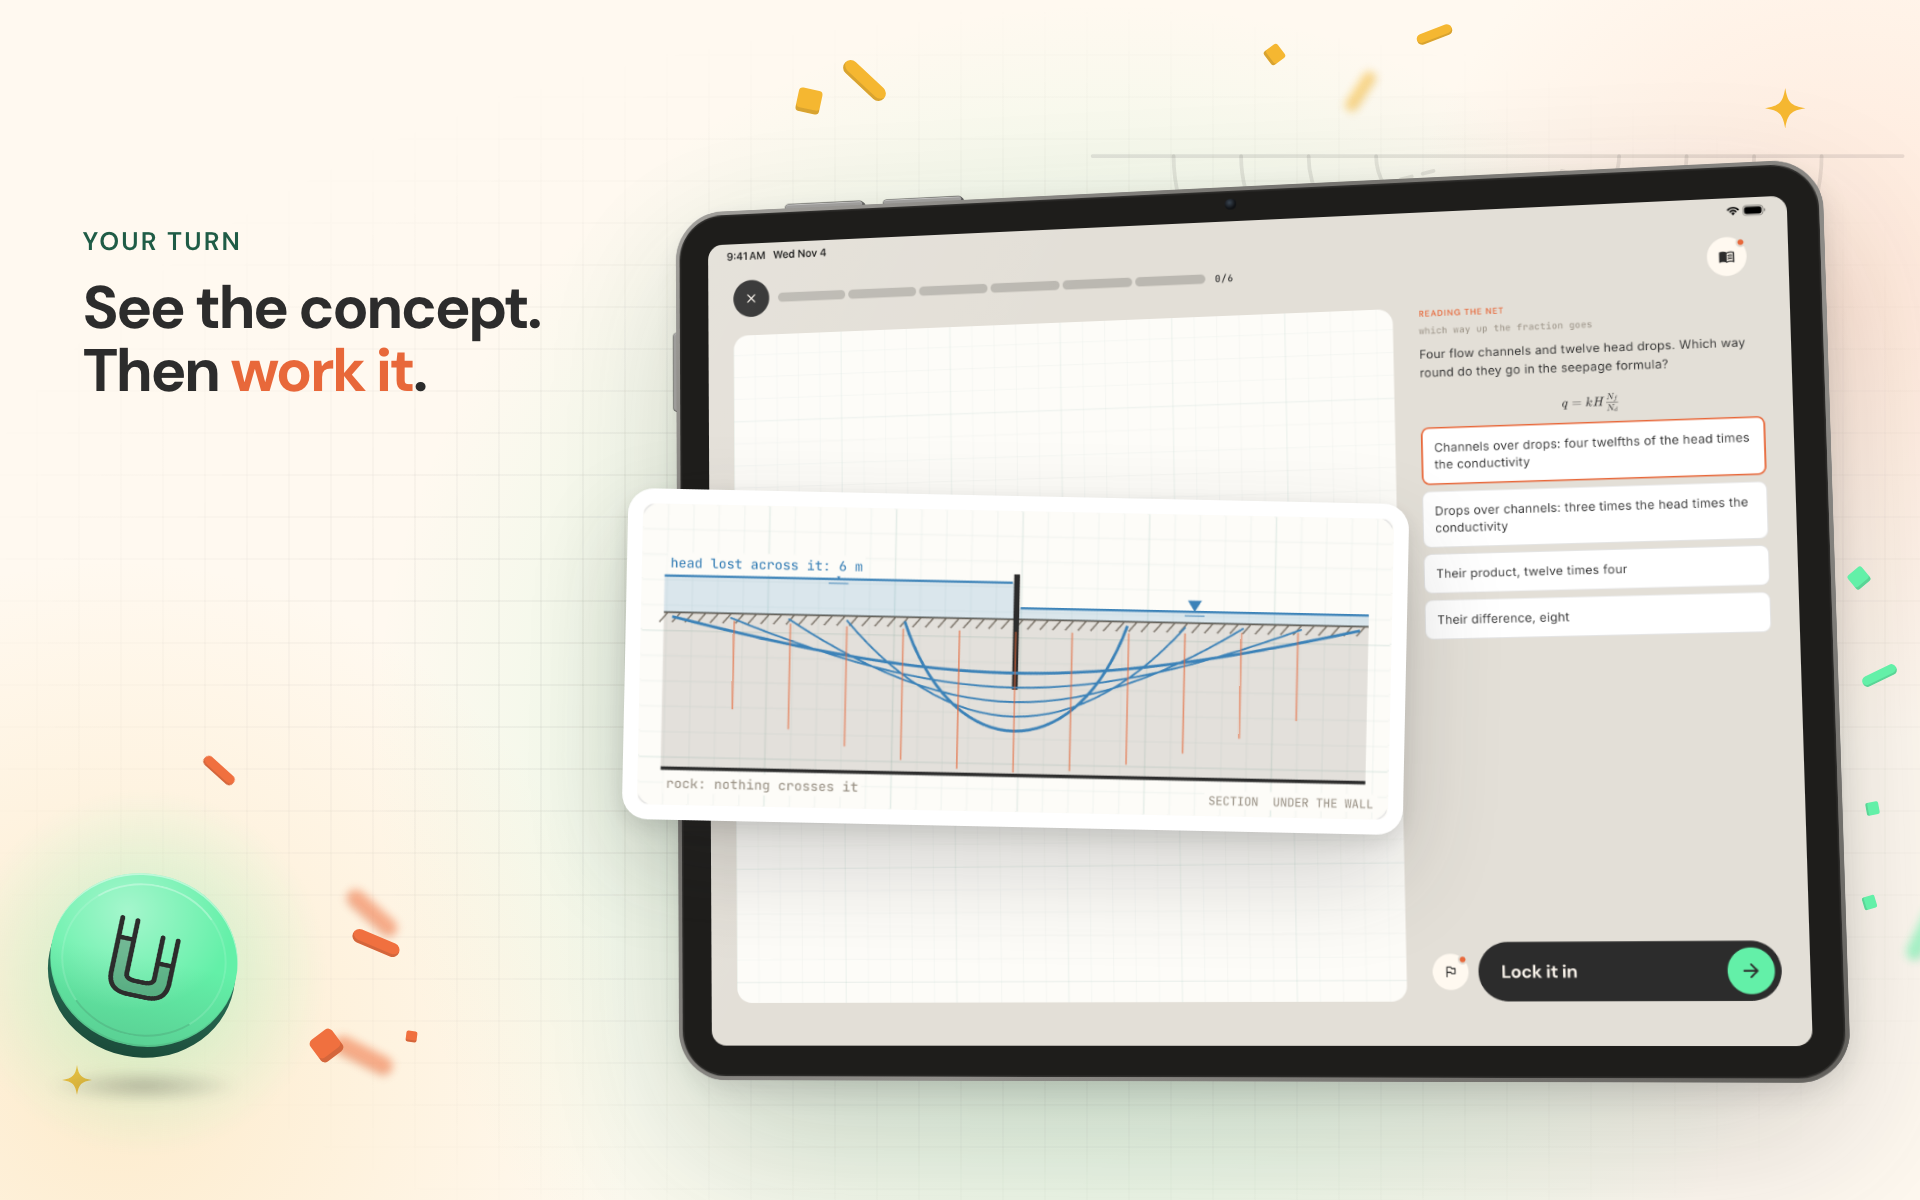
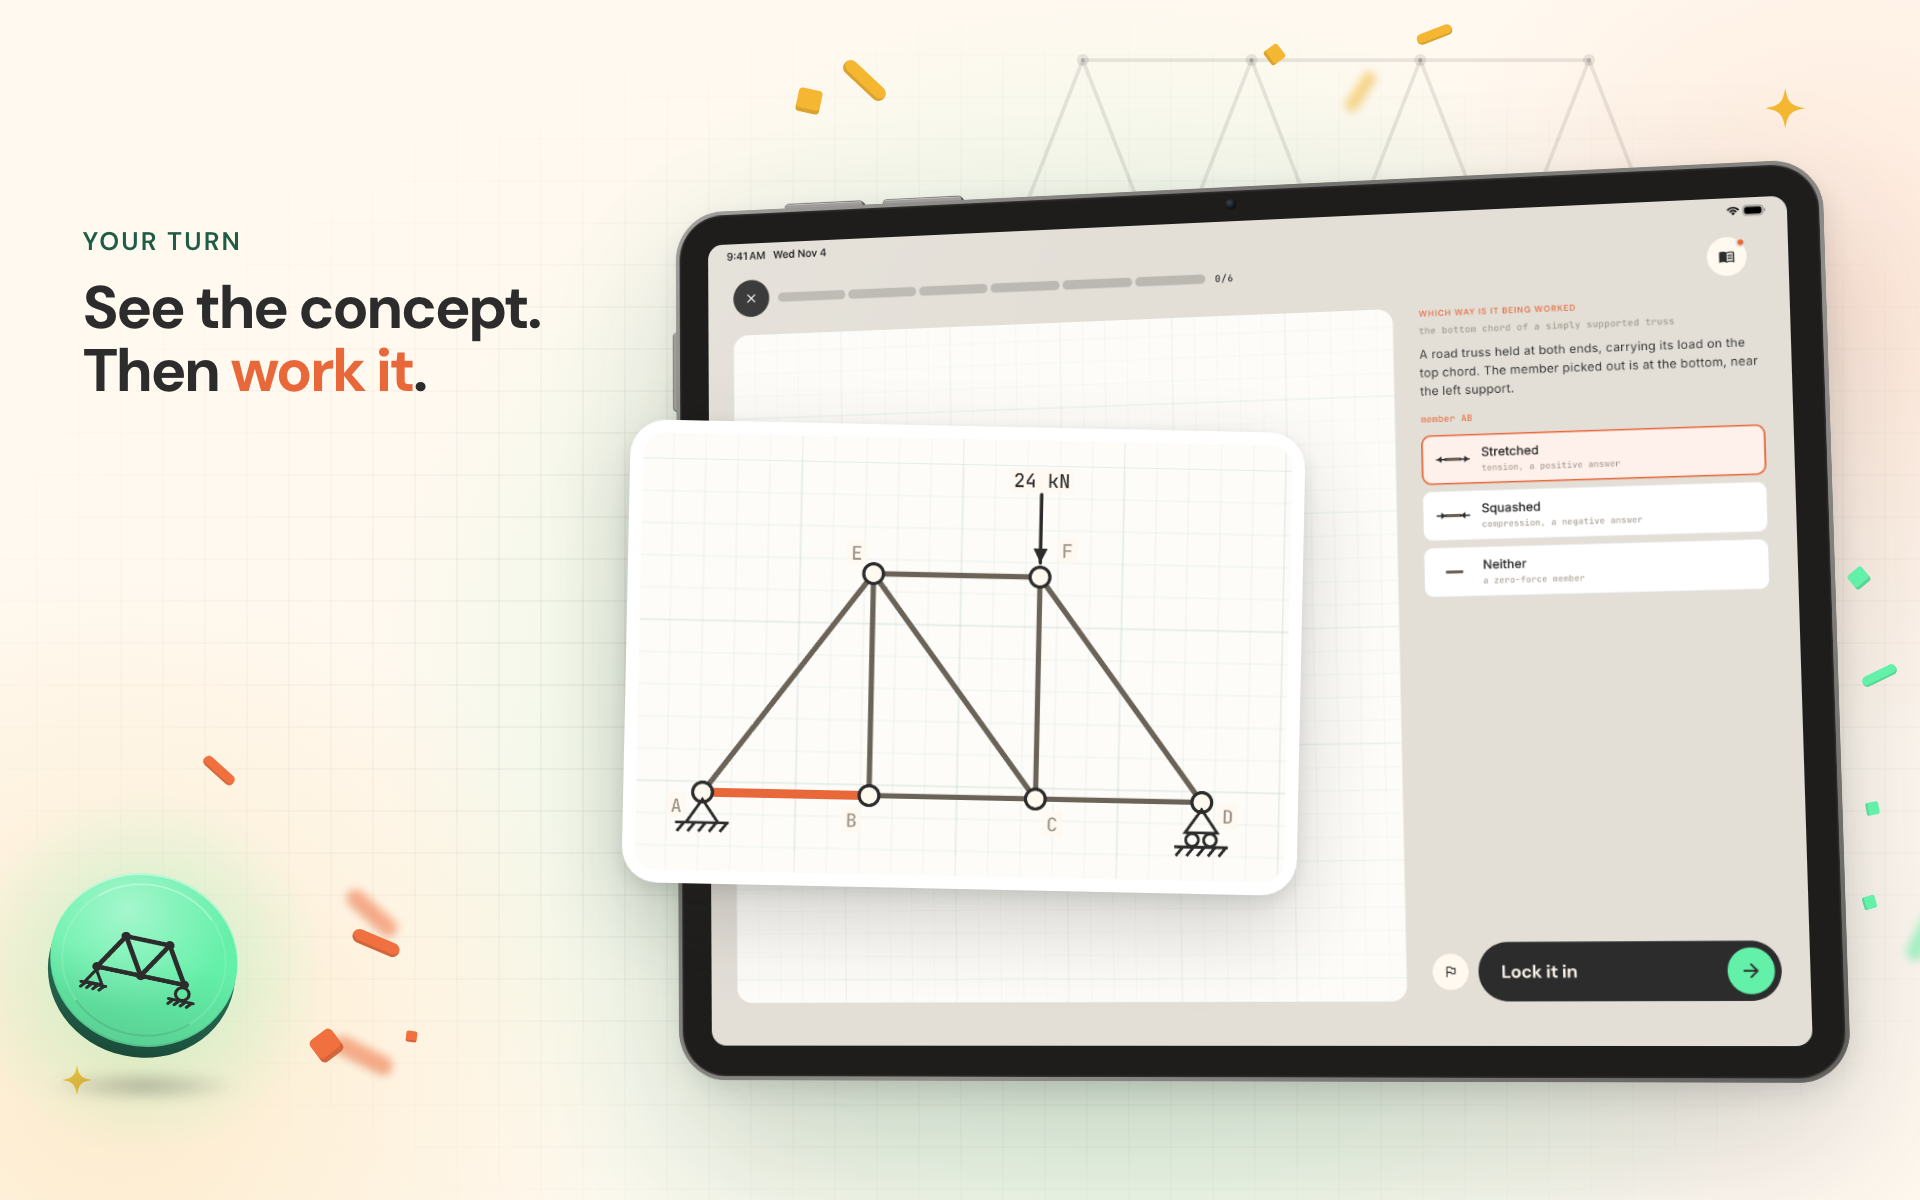
Tablet store shot 04 shows the truss round instead of the seepage flow net
The flow net drawing in the bundled pack is wrong, so the 'work it' shot now
plays Stretched or Squashed: a simply supported truss with member AB picked
out and Stretched chosen. The round's game can be overridden with ROUND_GAME
to compare candidates. All three tablet sets and contact sheets rebuilt.

Changed region(s): [[0.3125, 0.2467, 0.9375, 0.7708], [0.3125, 0.3392, 0.4062, 0.4317], [0.0312, 0.7708, 0.0938, 0.8325]]

diff --git a/mobile/integration_test/store_shots_tablet_test.dart b/mobile/integration_test/store_shots_tablet_test.dart
@@ -40,6 +40,13 @@ const _email = String.fromEnvironment('email');
 const _password = String.fromEnvironment('password');
 const _only = String.fromEnvironment('SHOTS');
 
+/// The game whose round the "work it" shot shows. Not the seepage flow net:
+/// its drawing in pack v24 is wrong (redrawn later, not yet in a pack).
+const _roundGame = String.fromEnvironment(
+  'ROUND_GAME',
+  defaultValue: 'stretched-or-squashed',
+);
+
 bool _want(String name) => _only.isEmpty || _only.split(',').contains(name);
 
 const _history = [
@@ -360,12 +367,17 @@ void main() {
     if (_want('daily-results')) await _shot(tester, 'daily-results');
 
     // A round with the drawing beside the answers, the right choice picked.
-    if (_want('round-net')) {
-      _router(tester).push('/games/play/counting-the-net');
+    // ROUND_GAME may list several games to compare; with one (the default)
+    // the shot is `round-work`.
+    final roundGames = _roundGame.split(',');
+    for (final game in roundGames) {
+      final name = roundGames.length == 1 ? 'round-work' : 'round-$game';
+      if (!_want(name)) continue;
+      _router(tester).push('/games/play/$game');
       await _wait(tester, 4000);
-      final r = _which(pack, ['counting-the-net']);
+      final r = _which(pack, [game]);
       if (r != null) await _tapText(tester, r.options[r.answer]);
-      await _shot(tester, 'round-net');
+      await _shot(tester, name);
       _router(tester).go('/home');
       await _wait(tester, 2500);
     }

diff --git a/mobile/design/appstore/ipad/build.py b/mobile/design/appstore/ipad/build.py
@@ -60,8 +60,9 @@ SHOT_W, SHOT_H = 2752, 2064
 # Where each screen's drawing sits, in the capture's own pixels (x, y, w, h),
 # and the point on it a finger would work. Read off the captures.
 DRAWINGS = {
-    # the flow net under the sheet pile wall, inside the round's drawing pane
-    'round-net': ((70, 756, 1708, 684), None, 24),
+    # the truss of Stretched or Squashed, member AB picked out, inside the
+    # round's drawing pane (the pane is mostly open grid round it)
+    'round-work': ((360, 700, 1160, 780), None, 0),
     # the concept sheet's first picture: a footing pressing the soft clay
     'round-concept': ((1880, 508, 826, 418), None, 16),
     # the Daily's three concepts, without the pill
@@ -94,10 +95,10 @@ FRAMES = [
     dict(name='03-results', shot='daily-done', overline='After you play', color='ember',
          headline=f'See how you did<br>against {em("everyone")}', glow=SUN,
          coins=[('water-resources', .075, .80, 230, 'butter', 12)], seed=23),
-    dict(name='04-round', shot='round-net', overline='Your turn', color='forest',
-         headline=f'See the concept.<br>Then {em("work it")}.', lift='round-net', bp='flownet',
-         grow=1.1, anchor='right',
-         coins=[('fluid-mechanics', .075, .80, 250, 'spring', 12)], seed=24),
+    dict(name='04-round', shot='round-work', overline='Your turn', color='forest',
+         headline=f'See the concept.<br>Then {em("work it")}.', lift='round-work', bp='truss',
+         grow=1.4, anchor='right',
+         coins=[('statics', .075, .80, 250, 'spring', 12)], seed=24),
     dict(name='05-sheet', shot='round-concept', overline='Why it works that way', color='sunbeam',
          headline=f'Every idea starts<br>with a {em("picture")}', lift='round-concept', bp='truss',
          grow=1.04, nudge=6, coins=[('geotechnical', .075, .80, 250, 'butter', 12)], seed=25),
@@ -294,21 +295,6 @@ def bp_truss(x, y, w, color, sw):
             f'{lines}</g><g stroke="none">{joints}</g></svg>')
 
 
-def bp_flownet(cx, cy, w, color, sw):
-    paths = []
-    for k in range(4):
-        rx, ry = w * (.18 + k * .1), w * (.12 + k * .075)
-        paths.append(f'<path d="M{cx - rx} {cy} A {rx} {ry} 0 0 0 {cx + rx} {cy}"/>')
-    for k in range(-5, 6):
-        ang = math.pi / 2 + k * .25
-        x0, y0 = cx + math.cos(ang) * w * .1, cy + math.sin(ang) * w * .07
-        x1, y1 = cx + math.cos(ang) * w * .5, cy + math.sin(ang) * w * .38
-        paths.append(f'<line x1="{x0}" y1="{y0}" x2="{x1}" y2="{y1}" stroke-dasharray="{sw * 3} {sw * 3}"/>')
-    paths.append(f'<line x1="{cx - w * .6}" y1="{cy}" x2="{cx + w * .6}" y2="{cy}"/>')
-    return (f'<svg class="abs" style="left:0;top:0;overflow:visible" width="1" height="1">'
-            f'<g fill="none" stroke="{color}" stroke-width="{sw}" stroke-linecap="round">{"".join(paths)}</g></svg>')
-
-
 # ── the tablet ──────────────────────────────────────────────────────────────
 
 # iPad Pro 13-inch (M5): 281.6 by 215.5 by 5.1 mm, a uniform bezel of about
@@ -453,8 +439,6 @@ def poster(F, w, h, out):
         body.append(bp_mohr(w * .82, h * .17, 250 * u, line, 5 * u))
     elif bp == 'truss':
         body.append(bp_truss(w * .52, h * .05, 900 * u, line, 5 * u))
-    elif bp == 'flownet':
-        body.append(bp_flownet(w * .78, h * .13, 900 * u, line, 5 * u))
     # Overline and headline: type alone, never on a pill (owner, 2026-10-20).
     body.append(f"""<div class="abs" style="left:{L['text_x']}px;top:{L['text_y']}px;width:{L['text_w']}px;z-index:90">
       <div style="color:{OVERLINE[F['color']]};font-weight:600;font-size:{L['over']}px;letter-spacing:.085em;
